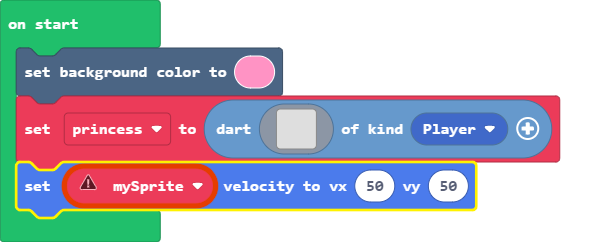
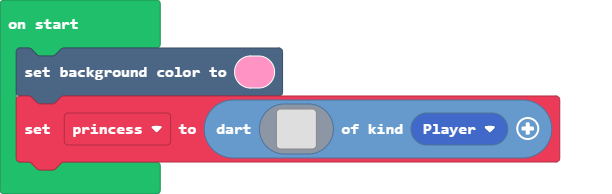
Update main.blocks, main.ts

diff --git a/main.ts b/main.ts
@@ -1,4 +1,3 @@
-let mySprite: Sprite = null
 scene.setBackgroundColor(3)
 let princess = darts.create(img`
     . . . . . . . . . . . . . . . . 
@@ -18,4 +17,3 @@ let princess = darts.create(img`
     . . . . . . . . . . . . . . . . 
     . . . . . . . . . . . . . . . . 
     `, SpriteKind.Player)
-mySprite.setVelocity(50, 50)
